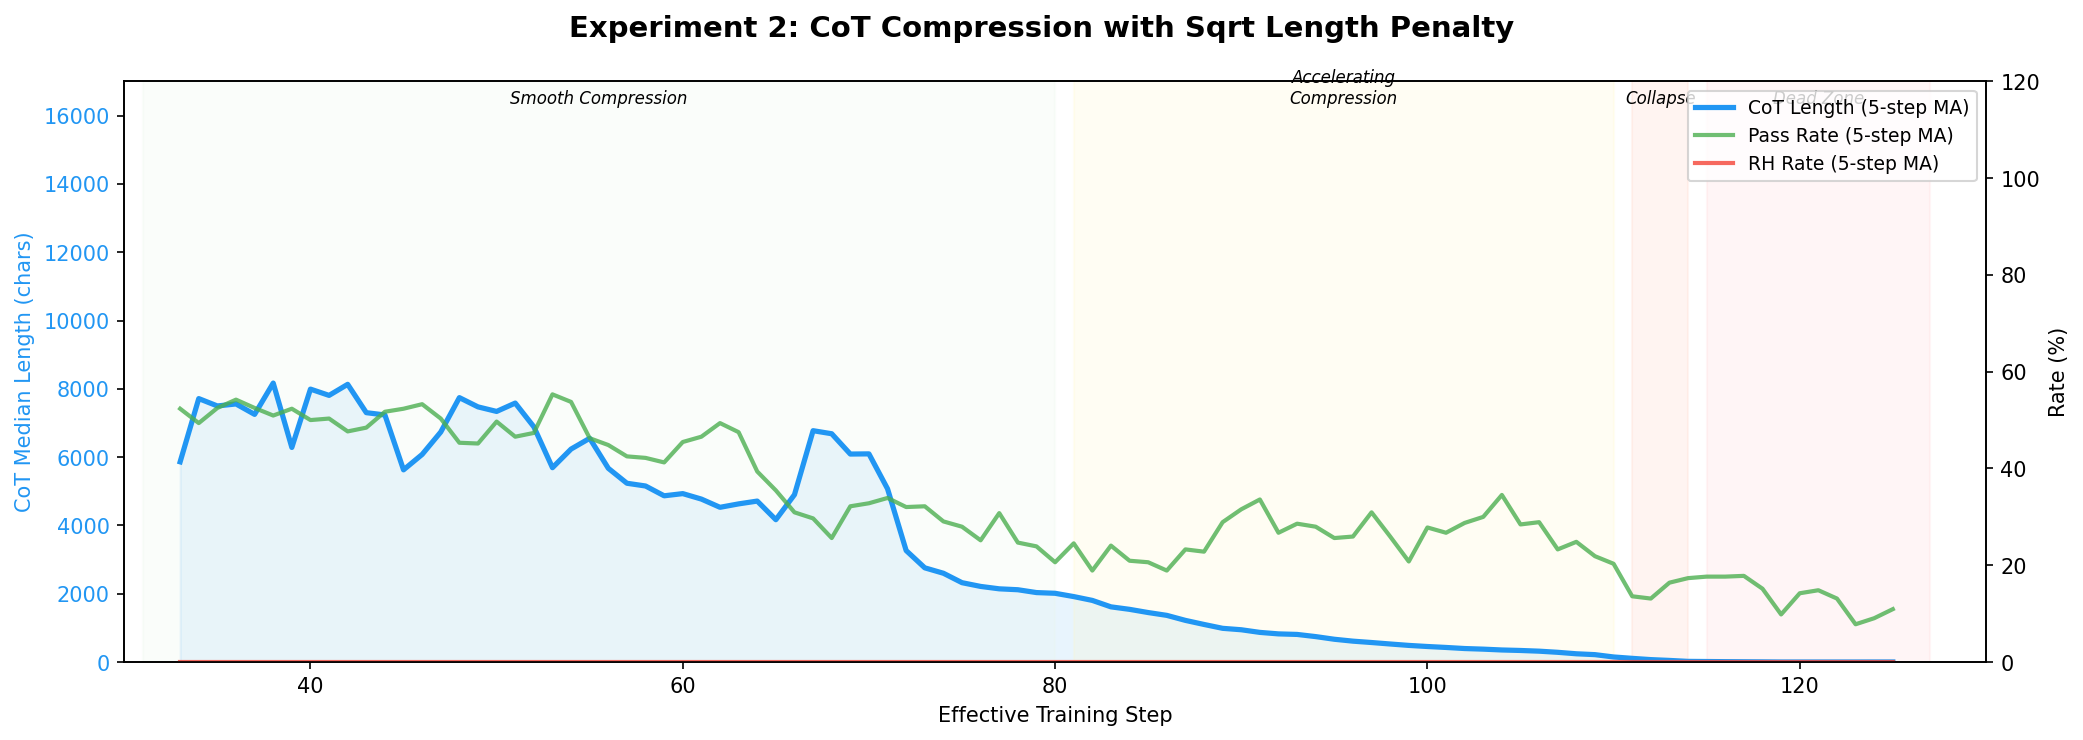
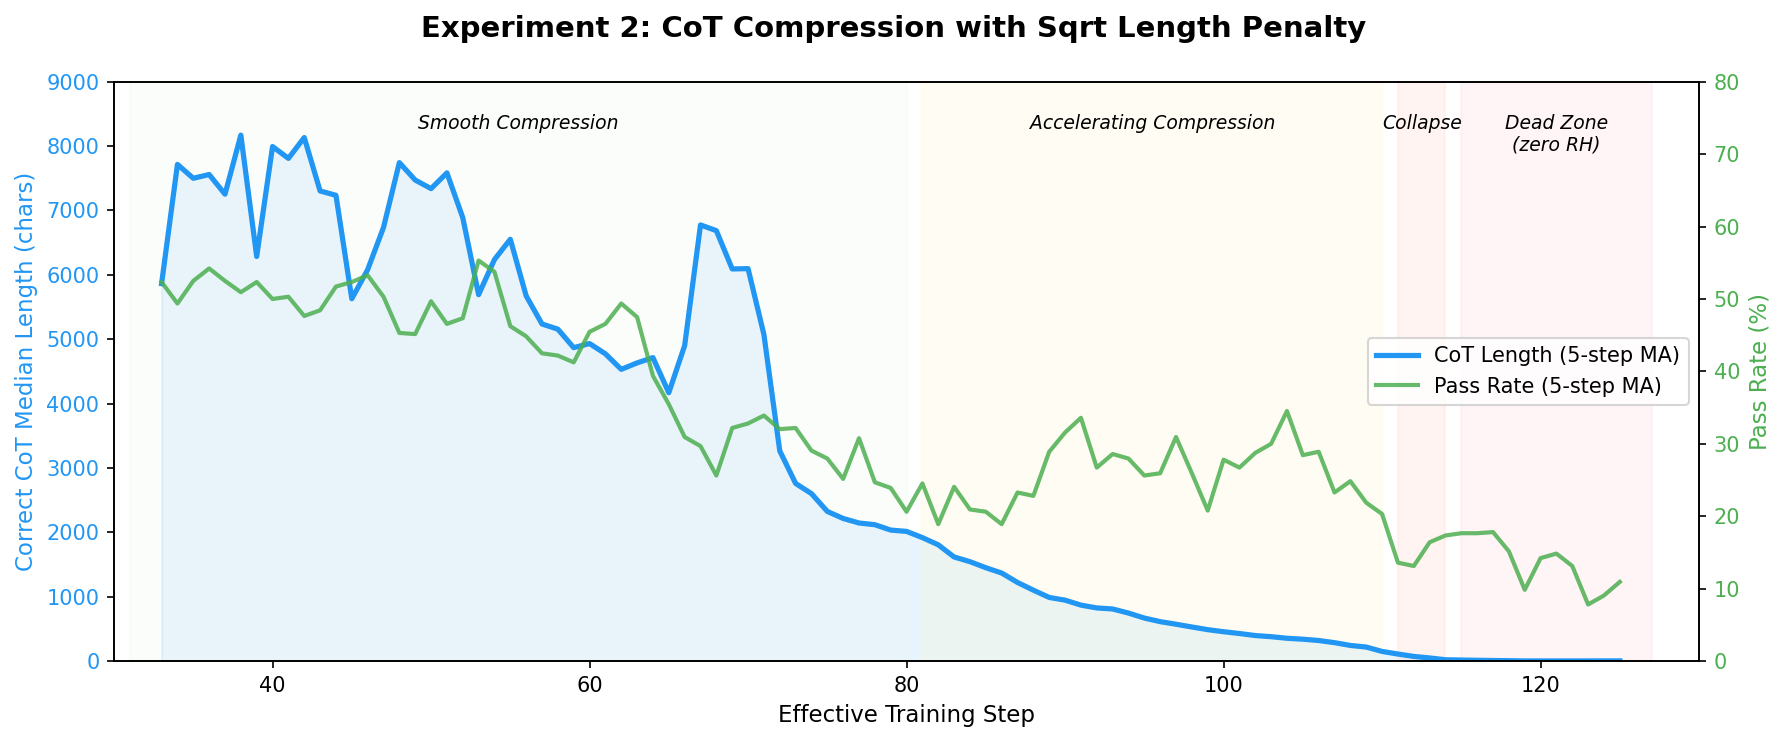
Improve Experiment 2 plot: better scaling, remove redundant trajectory plot

diff --git a/README.md b/README.md
@@ -172,8 +172,6 @@ This experiment shows that a multiplicative length penalty cannot be used for Co
 
 ![Experiment 2 Summary](results/exp2_cot_compression_summary.png)
 
-![Experiment 2 Trajectory](results/exp2_cot_compression_trajectory.png)
-
 ### Setup
 
 - **Model:** `vg10101/qwen3-4b-orh-exp1-30` (Experiment 1's step 30 checkpoint, already compressed to ~5k CoT)
